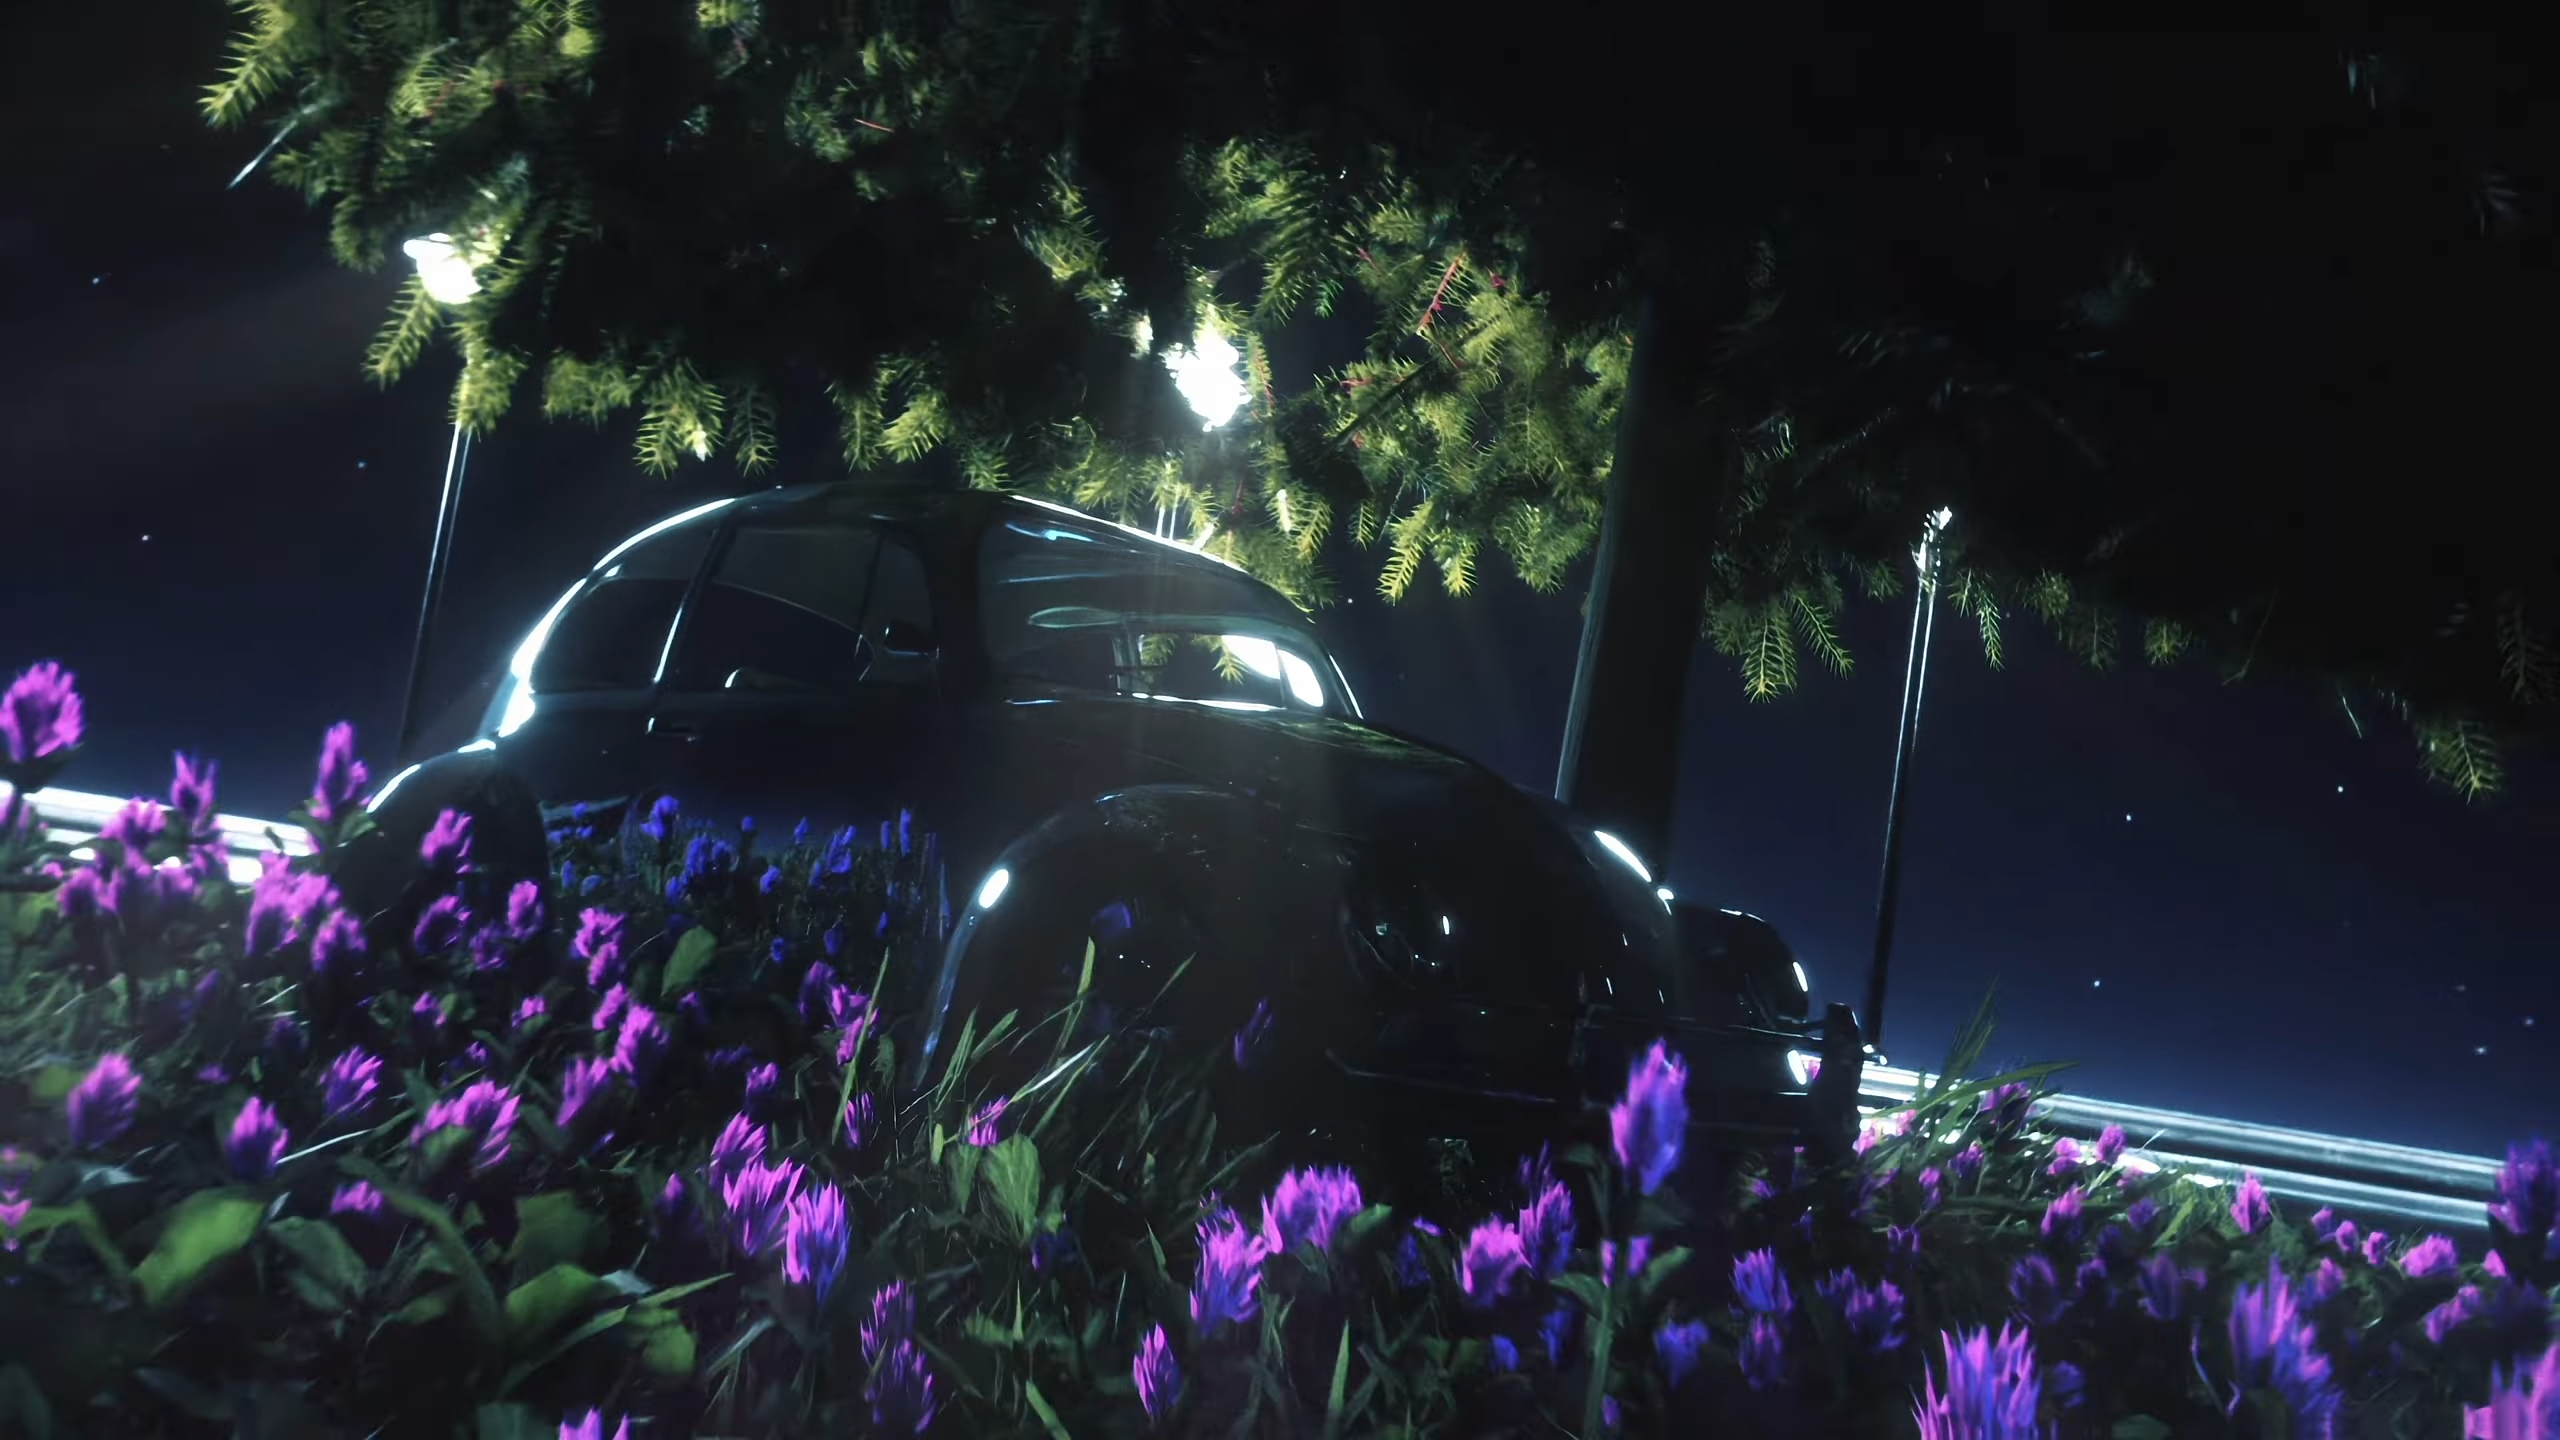
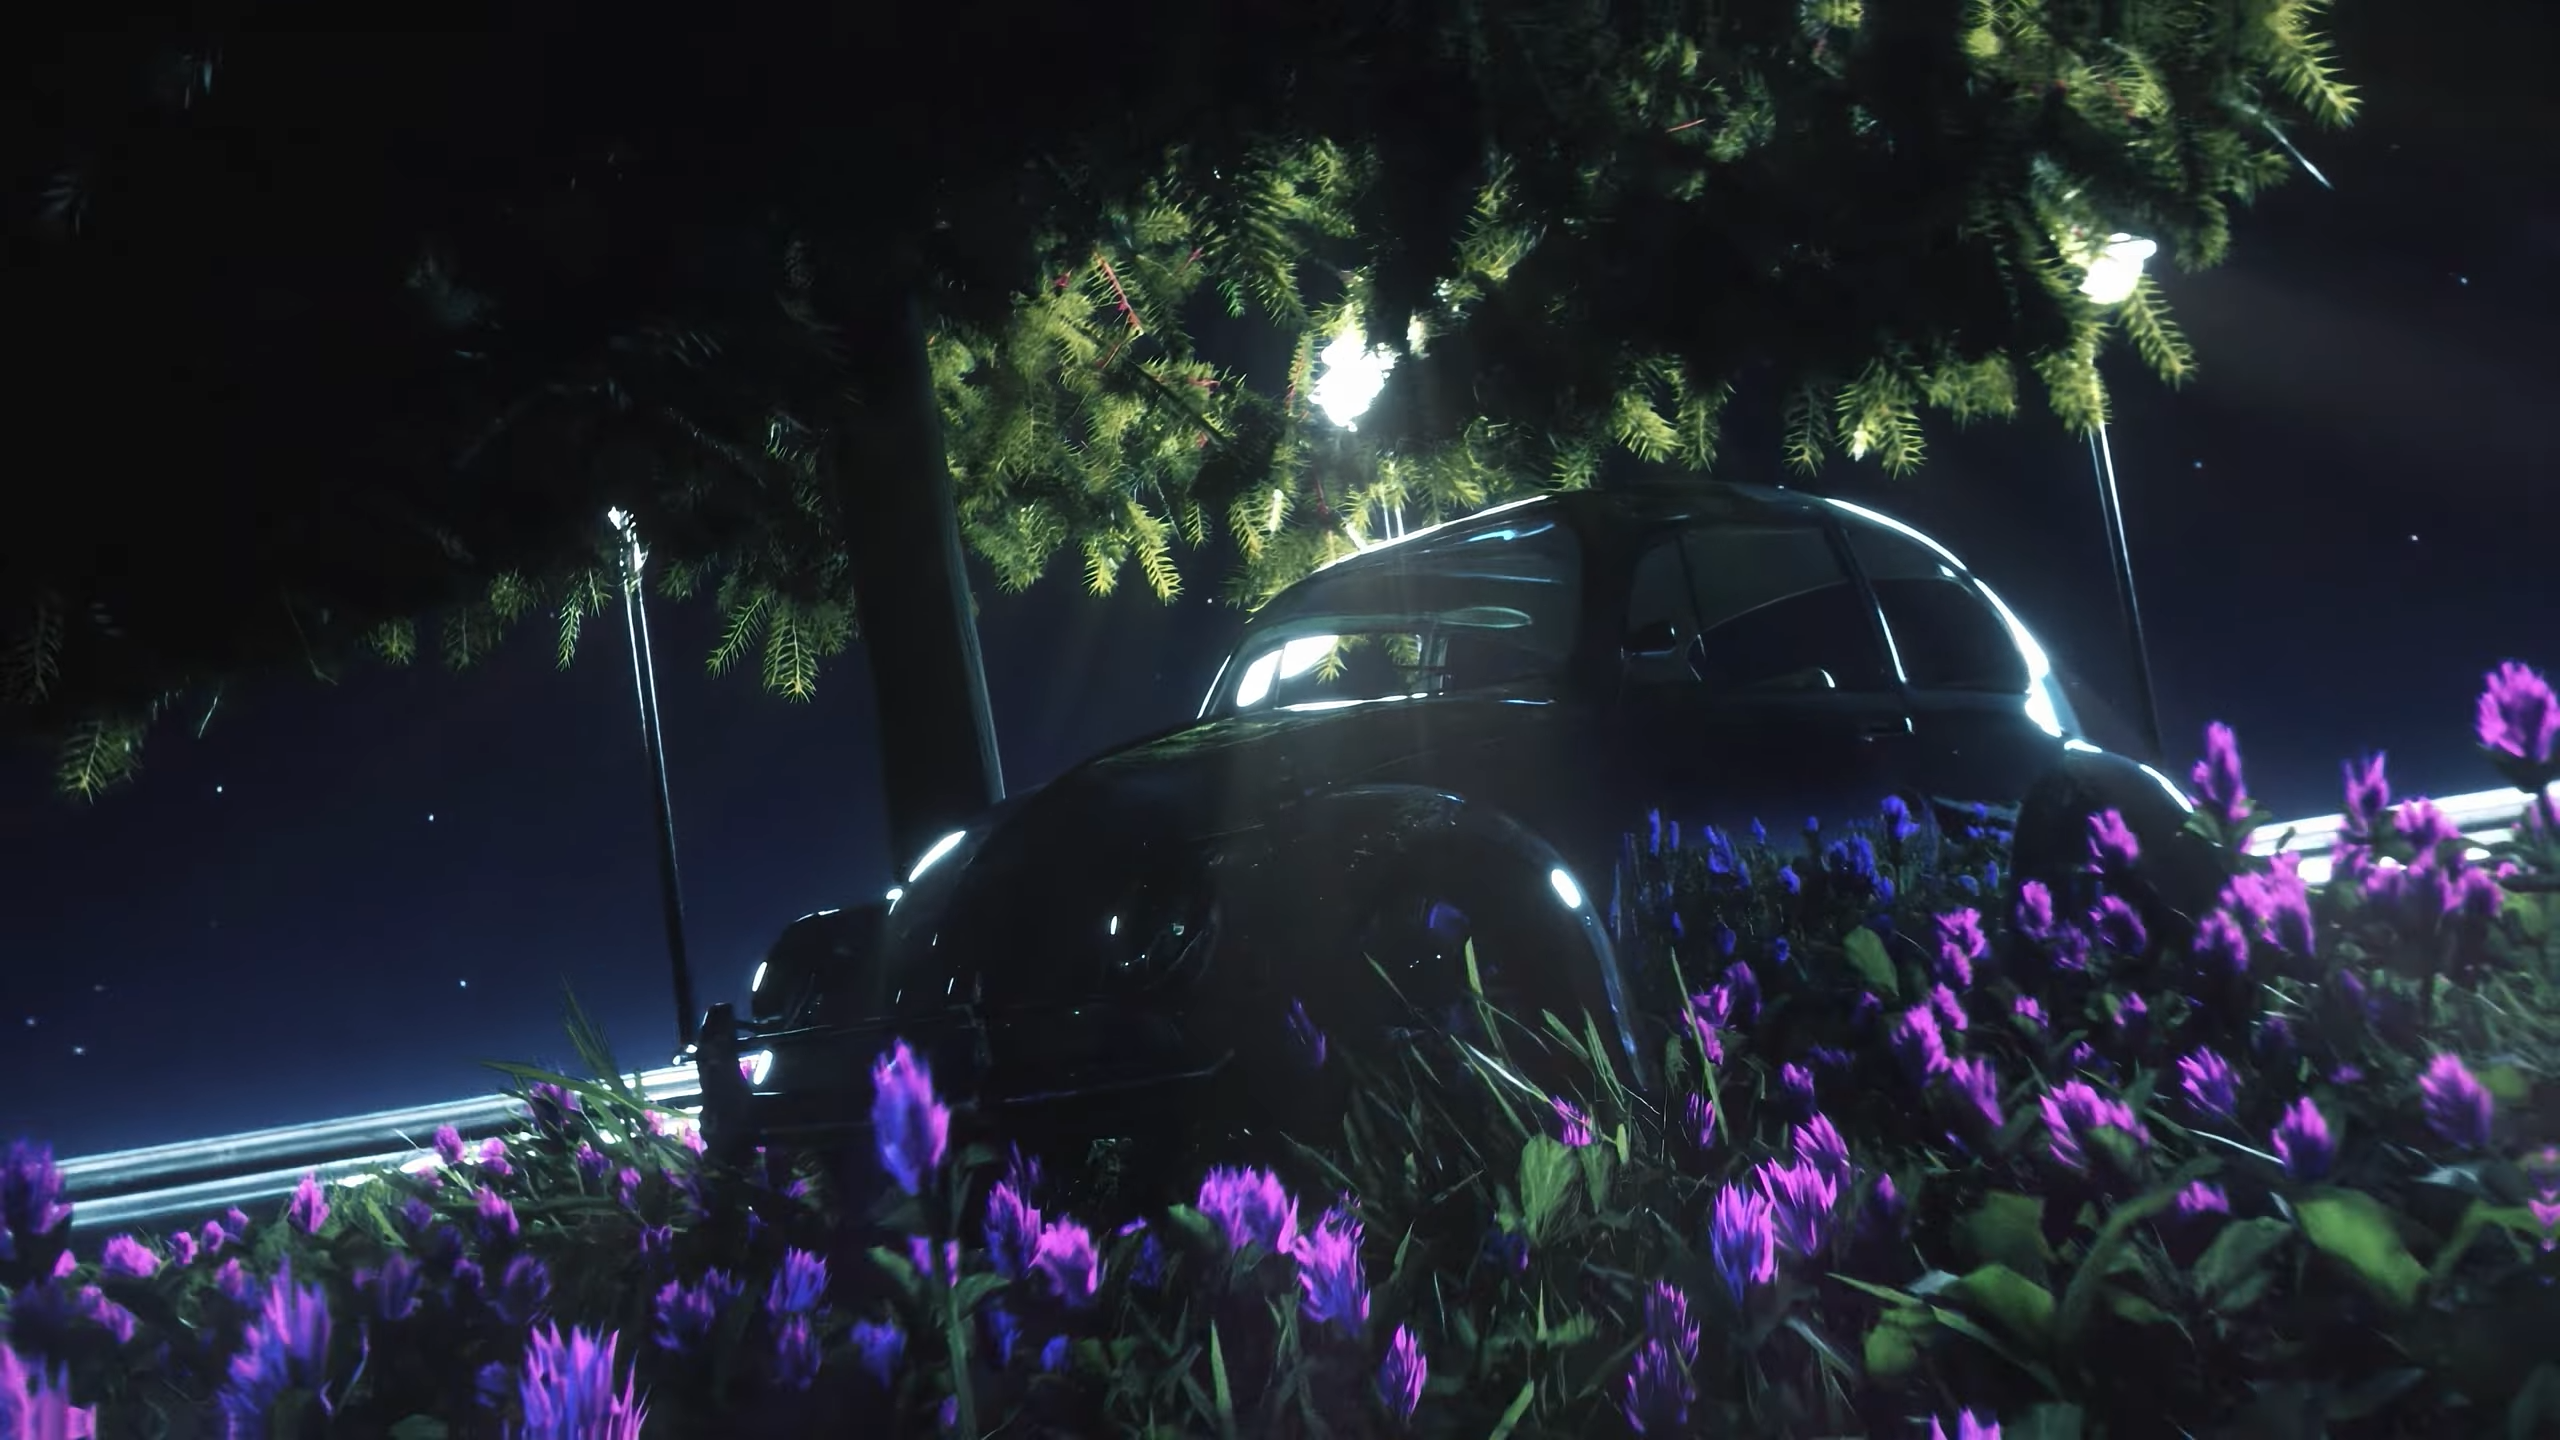
pushes

diff --git a/social_story/templates/landingpage.html b/social_story/templates/landingpage.html
@@ -9,15 +9,57 @@
     <link href="https://fonts.googleapis.com/css2?family=Josefin+Slab&display=swap" rel="stylesheet">
     <link rel="stylesheet" href="{% static 'css/landingpage.css' %}">
     <link rel="stylesheet" href="{% static 'css/particles.css' %}">
+    <link rel="stylesheet" href="{% static 'css/sign.css' %}">
     <title>MethosVeta</title>
 </head>
 <body>
     <div class="container">
         <div class="movbk">
-            <img src="{% static 'images/background/gardern.png' %}" alt="Background" class="background">
+            <img src="{% static 'images/background/car.png' %}" alt="Background" class="background">
         </div>
         <div class="main">
-            <div class="d3"></div>
+            <div class="d3">
+                <!-- Login Form -->
+                <div class="main2">    
+                    <input type="checkbox" id="chk" aria-hidden="true">
+                    
+                    <div class="signup">
+                        <form action="{% url 'signup' %}" method="post">
+                            {% csrf_token %}
+                            <label for="chk" aria-hidden="true" class="form-label">Sign in</label>
+                            <div>
+                                {% if messages %}
+                                {% for message in messages %}
+                                    <p class="error">{{ message }}</p>
+                                {% endfor %}
+                                {% endif %}
+                            </div>
+                            <input type="text" name="username" placeholder="User name" required="">
+                            <input type="email" name="email" placeholder="Email" required="">
+                            <input type="password" name="password1" placeholder="Password" required="">
+                            <input type="password" name="password2" placeholder="Confirm Password" required="">
+                            <button>Sign up</button>
+                        </form>
+                    </div>
+            
+                    <div class="login">
+                        <form action="{% url 'login' %}" method="post">
+                            {% csrf_token %}
+                            <label for="chk" aria-hidden="true" class="form-label">Sign up</label>
+                            <div>
+                                {% if messages %}
+                                {% for message in messages %}
+                                    <p class="error">{{ message }}</p>
+                                {% endfor %}
+                                {% endif %}
+                            </div>
+                            <input type="text" name="username" placeholder="username" required="">
+                            <input type="password" name="password1" placeholder="Password" required="">
+                            <button>Login</button>
+                        </form>
+                    </div>
+                </div>
+            </div>
         </div>
         <div class="custom-cursor"></div>
         <div class="fog"></div>

diff --git a/social_story/static/css/landingpage.css b/social_story/static/css/landingpage.css
@@ -135,18 +135,18 @@ body, html {
 }
 
 .methos {
-  background: linear-gradient(45deg, #fcfded, #aed581); /* Yellow to light green gradient */
+  background: linear-gradient(45deg, #8d44d1, #4e2a99); /* Yellow to light green gradient */
   -webkit-background-clip: text;
   -webkit-text-fill-color: transparent;
-  text-shadow: 0 0 5px #d4e157;
+  text-shadow: 0 0 5px #ea77fc;
   animation: glowMethos 2s infinite alternate;
 }
 
 .veta {
-  background: linear-gradient(45deg, #c2cc66, #c2cc66); /* Dark green to green gradient */
+  background: linear-gradient(45deg, #fdfdfd, #65a0bf); /* Dark green to green gradient */
   -webkit-background-clip: text;
   -webkit-text-fill-color: transparent;
-  text-shadow: 0 0 5px #959155;
+  text-shadow: 0 0 5px #c0edf6;
   animation: glowVeta 2s infinite alternate;
 }
 
@@ -167,19 +167,19 @@ body, html {
 
 @keyframes glowMethos {
   from {
-    text-shadow: 0 0 5px rgba(233, 233, 233, 0.5), 0 0 20px rgba(250, 250, 250, 0.5), 0 0 30px rgba(255, 255, 255, 0.5);
+    text-shadow: 0 0 5px #a444c79c, 0 0 20px #a444c79c, 0 0 30px #a444c79c;
   }
   to {
-    text-shadow: 0 0 10px rgba(255, 255, 255, 0.5), 0 0 30px rgba(212, 225, 87, 0.5), 0 0 40px rgba(255, 255, 255, 0.5);
+    text-shadow: 0 0 10px #a444c79c, 0 0 30px #a444c79c, 0 0 40px #a444c79c;
   }
 }
 
 @keyframes glowVeta {
   from {
-    text-shadow: 0 0 5px rgba(197,205,114,255), 0 0 20px rgba(197,205,114,255), 0 0 30px rgba(197,205,114,255);
+    text-shadow: 0 0 5px #64a3c2a2, 0 0 20px #64a3c2a2, 0 0 30px #64a3c2a2;
   }
   to {
-    text-shadow: 0 0 10px rgba(197,205,114,255), 0 0 30px rgba(197,205,114,255), 0 0 40px rgba(197,205,114,255);
+    text-shadow: 0 0 10px #64a3c2a2, 0 0 30px #64a3c2a2, 0 0 40px #64a3c2a2;
   }
 }
 
@@ -295,7 +295,13 @@ body, html {
 
   top: 50%;
   transform: translateY(-50%);
-  z-index: 3;
+  z-index: 9999999993;
+  display: flex;
+  flex-direction: column;
+  align-items: center;
+  justify-content: center;
+  padding: 20px;
+  border-radius: 10px;
 }
 
 
@@ -303,11 +309,12 @@ body, html {
     width: 60px;
     height: 60px;
     border-radius: 50%;
-    background: rgba(255, 255, 255, 0.534);
+    background: #a444c786;
     position: absolute;
     pointer-events: none;
     filter: blur(35px);
-    box-shadow: 0 0 20px rgba(255, 255, 255, 0.534), 0 0 30px rgba(255, 255, 255, 0.534), 0 0 40px rgba(255, 255, 255, 0.534);
+    box-shadow: 0 0 20px #a444c786, 0 0 30px #a444c786, 0 0 40px #a444c786;
+    animation: glowMethos 2s infinite alternate;
     transition: transform 0.1s ease;
     transform: translate(-50%, -50%);
 }

diff --git a/social_story/static/css/sign.css b/social_story/static/css/sign.css
@@ -1,0 +1,101 @@
+.main2 {
+    width: 350px;
+    height: 500px;
+    overflow: hidden;
+    background: url("https://doc-08-2c-docs.googleusercontent.com/docs/securesc/68c90smiglihng9534mvqmq1946dmis5/fo0picsp1nhiucmc0l25s29respgpr4j/1631524275000/03522360960922298374/03522360960922298374/1Sx0jhdpEpnNIydS4rnN4kHSJtU1EyWka?e=view&authuser=0&nonce=gcrocepgbb17m&user=03522360960922298374&hash=tfhgbs86ka6divo3llbvp93mg4csvb38") no-repeat center/cover;
+    position: relative;
+}
+
+#chk {
+    display: none;
+}
+
+.signup, .login {
+    position: absolute;
+    /* top: 0; */
+    width: 100%;
+    height: 100%;
+    transition: transform 0.8s ease-in-out;
+}
+
+.signup {
+    left: 0;
+    top: 0;
+}
+
+.login {
+    right: -100%;
+    bottom: 100px;
+    border-radius: 10px;
+    display: flex;
+    flex-direction: column;
+    justify-content: center;
+}
+
+label.form-label {
+    font-family: 'Dancing Script', cursive;
+    color: #fafafad2;
+    font-size: 2.3em;
+    justify-content: center;
+    display: flex;
+    margin: 20px;
+    font-weight: bold;
+    cursor: pointer;
+    transition: .5s ease-in-out;
+    position: absolute;
+    bottom: 100px;
+    left: 50%;
+    transform: translateX(-70%);
+}
+
+input {
+    width: 60%;
+    height: 10px;
+    background: #e0dede;
+    justify-content: center;
+    display: flex;
+    margin: 20px auto;
+    padding: 12px;
+    border: none;
+    outline: none;
+    border-radius: 5px;
+    font-family: 'Josefin Slab', serif;
+}
+
+.d3 button {
+    width: 60%;
+    height: 40px;
+    margin: 10px auto;
+    justify-content: center;
+    display: block;
+    color: #fff;
+    background: #ff5ce9d2;
+    font-size: 1em;
+    font-weight: bold;
+    margin-top: 30px;
+    outline: none;
+    border: none;
+    border-radius: 5px;
+    transition: .2s ease-in;
+    cursor: pointer;
+}
+
+.d3 button:hover {
+    background: #65a0bf;
+}
+
+#chk:checked ~ .signup {
+    transform: translateX(-100%);
+}
+
+#chk:checked ~ .login {
+    transform: translateX(-100%);
+}
+
+#chk:checked ~ .login label.form-label {
+    color: #573b8a;
+}
+
+#chk:checked ~ .signup label.form-label {
+    color: #ff5ce9d2;
+}

diff --git a/social_story/templates/search.html b/social_story/templates/search.html
@@ -1,0 +1,28 @@
+{% load static %}
+<!DOCTYPE html>
+<html>
+<head>
+    <title>Book Search</title>
+</head>
+<body>
+    <h1>Search for Books</h1>
+    <form method="get" action="{% url 'search_books' %}">
+        <input type="text" name="query" placeholder="Search by name or related names..." value="{{ query }}">
+        <input type="text" name="genre" placeholder="Search by genre..." value="{{ genre }}">
+        <button type="submit">Search</button>
+    </form>
+
+    {% if books %}
+        <h2>Search Results</h2>
+        <ul>
+            {% for book in books %}
+                <li>
+                    <a href="{% url 'book_detail' book.key %}">{{ book.title }}</a>
+                </li>
+            {% endfor %}
+        </ul>
+    {% elif query or genre %}
+        <p>No results found for "{{ query }} {{ genre }}"</p>
+    {% endif %}
+</body>
+</html>

diff --git a/social_story/static/js/3Dscript.js b/social_story/static/js/3Dscript.js
@@ -12,17 +12,6 @@ document.addEventListener('mousemove', function(e) {
     cursor.style.top = `${e.clientY}px`;
 });
 
-// Generate flowers and light effects
-// const overlay = document.querySelector('.overlay');
-// const flowerCount = getComputedStyle(document.documentElement).getPropertyValue('--flower-count');
-
-// for (let i = 0; i < flowerCount; i++) {
-//     const flower = document.createElement('div');
-//     flower.classList.add('flower');
-//     flower.style.top = `${Math.random() * 100}%`;
-//     flower.style.left = `${Math.random() * 100}%`;
-//     overlay.appendChild(flower);
-// }
 
 const light = document.createElement('div');
 light.classList.add('light');

diff --git a/social_story/templates/book_detail.html b/social_story/templates/book_detail.html
@@ -1,0 +1,15 @@
+{% load static %}
+<!DOCTYPE html>
+<html>
+<head>
+    <title>{{ book.title }}</title>
+</head>
+<body>
+    <h1>{{ book.title }}</h1>
+    <p>Author: {{ book.authors|join:", " }}</p>
+    <p>First Published: {{ book.first_publish_year }}</p>
+    <p>Description: {{ book.description }}</p>
+    <p>Excerpt: {% for excerpt in book.excerpts %}<br>{{ excerpt }}{% endfor %}</p>
+    <a href="{% url 'search_books' %}">Back to search</a>
+</body>
+</html>

diff --git a/social_story/core/views.py b/social_story/core/views.py
@@ -1,8 +1,10 @@
 #!/usr/bin/env python
 """view for social_story"""
-from django.shortcuts import render, redirect
+from django.shortcuts import render, redirect, get_object_or_404
 from django.contrib.auth.models import User, auth
 from .models import Profile
+from django.http import JsonResponse, Http404
+import requests
 from django.contrib import messages
 from django.http import HttpResponse
 from django.contrib.auth.decorators import login_required
@@ -74,3 +76,46 @@ def login(request):
 def logout(request):
     auth.logout(request)
     return redirect('login')
+
+
+def search_books(request):
+    query = request.GET.get('query', '')
+    genre = request.GET.get('genre', '')
+    books = []
+
+    if query or genre:
+        try:
+            api_url = f'https://openlibrary.org/search.json?q={query}&subject={genre}'
+            response = requests.get(api_url)
+
+            if response.status_code == 200:
+                data = response.json()
+                books = data.get('docs', [])
+            else:
+                return JsonResponse({'error': 'Failed to fetch stories'}, status=response.status_code)
+        except Exception as e:
+            return JsonResponse({'error': 'An error occurred'}, status=500)
+    
+    return render(request, 'search.html', {'books': books, 'query': query, 'genre': genre})
+
+def book_detail(request, book_key):
+    api_url = f'https://openlibrary.org{book_key}.json'
+    response = requests.get(api_url)
+    
+    if response.status_code == 200:
+        book = response.json()
+        
+        # Fetch additional content details
+        description = book.get('description')
+        if isinstance(description, dict):
+            description = description.get('value', '')
+
+        excerpts = book.get('excerpts', [])
+        excerpt_texts = [excerpt.get('text', '') for excerpt in excerpts]
+
+        book['description'] = description
+        book['excerpts'] = excerpt_texts
+
+        return render(request, 'book_detail.html', {'book': book})
+    else:
+        raise Http404("Book not found")
